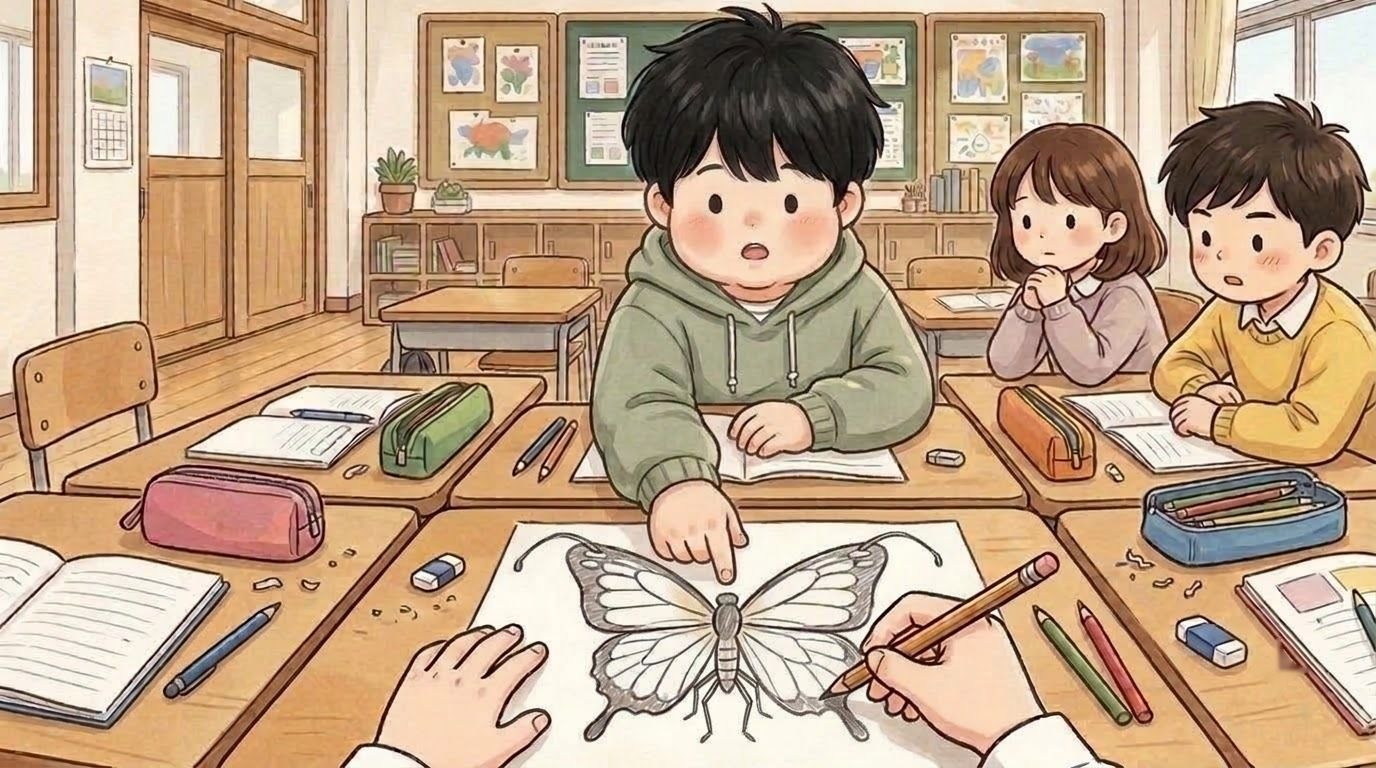
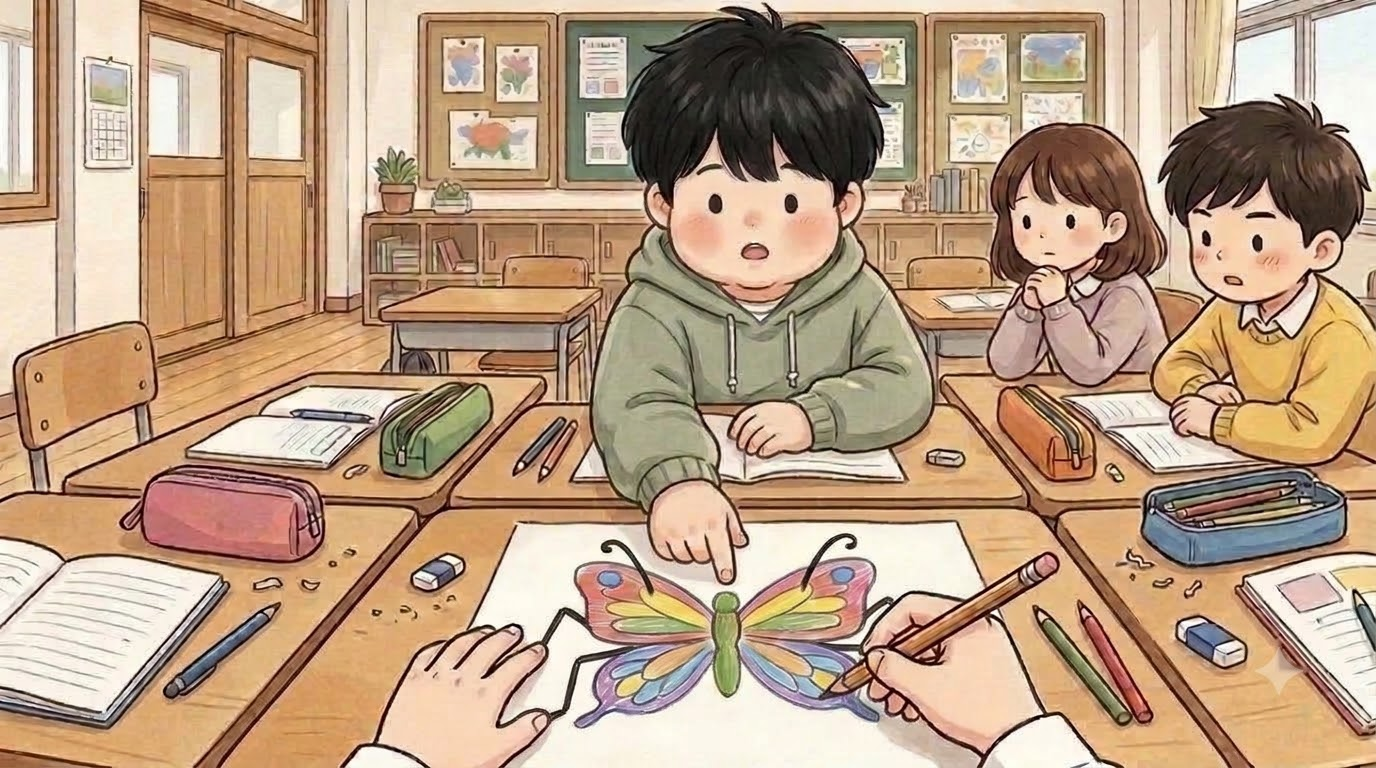
시우 나비: 짚는 장면·접는 장면 틀린 크레용 나비, 「정확해」 장면에 맞은 나비 그림 추가

Changed region(s): [[0.375, 0.6875, 0.6875, 0.9688], [0.9062, 0.8438, 0.9375, 0.9062]]

diff --git a/index.html b/index.html
@@ -119,14 +119,14 @@ body,button{word-break:keep-all;overflow-wrap:break-word}
 <div id="fader"></div>
 <script>
 // same address, newest version: if the page this phone has kept is older than the one online, fetch the new one and reopen
-const BUILD='1114211944';
+const BUILD='1115091813';
 try{fetch(location.pathname,{cache:'no-store'}).then(r=>r.text()).then(t=>{const m=t.match(/const BUILD='(\d+)'/);if(m&&m[1]!==BUILD&&sessionStorage.getItem('upd')!==m[1]){sessionStorage.setItem('upd',m[1]);fetch(location.pathname,{cache:'reload'}).then(()=>location.reload())}}).catch(()=>{})}catch(e){}
 </script>
-<script src="i18n.js?v=1114211944"></script>
-<script src="i18n_prologue_v2.js?v=1114211944"></script>
-<script src="day2/i18n_engine.js?v=1114211944"></script>
-<script src="day2/data.js?v=1114211944"></script>
-<script src="day3/data.js?v=1114211944"></script>
+<script src="i18n.js?v=1115091813"></script>
+<script src="i18n_prologue_v2.js?v=1115091813"></script>
+<script src="day2/i18n_engine.js?v=1115091813"></script>
+<script src="day2/data.js?v=1115091813"></script>
+<script src="day3/data.js?v=1115091813"></script>
 <script>
 // ---------- data ----------
 const MW=1672,MH=941,KID=180;
@@ -581,37 +581,37 @@ function pickHero(){const m=document.getElementById('modal'),c=document.getEleme
  c.innerHTML=`<h2>${tr('전학생 반장되기')}</h2><p>${tr('한국말이 아직 서툰 전학생,<br>반장 선거에 나가다.')}</p><p style="margin-top:14px">${tr('누구로 할까요?')}</p>${(()=>{const s=loadSave();return s&&s.day>=2&&s.mode===UI+'-'+LANG?`<p><button class="big" id="cont">${tr('{n}일차부터 이어 하기').replace('{n}',s.day)}</button></p>`:''})()}<div class="pick heroes"><button data-h="hero_f"><img src="faces/hero_f_smile.jpg" alt="여자 주인공">${heroName(1)}</button><button data-h="hero_m"><img src="faces/hero_m_smile.jpg" alt="남자 주인공">${heroName(0)}</button></div>`;
  m.classList.add('on');{const cb=document.getElementById('cont');if(cb)cb.onclick=()=>{const s=loadSave();HERO=s.hero;Object.assign(HEART,s.heart||{});(s.found||[]).forEach(k=>FOUND.add(k));HEART_D1={...HEART};chime();(typeof contGame==='function'?contGame(s):startDay(Math.min(s.day,Object.keys(window.D3||{}).length?3:2)))}}c.querySelectorAll('.pick button').forEach(b=>b.onclick=()=>{HERO=b.dataset.h;m.classList.remove('on');chime();bgm('day');load('home_am');say([['nar','','이사 온 다음 날 아침. 아직 풀지 못한 상자들이 쌓여 있다.'],['think','sad','(오늘부터 새 학교야. 여기 말도 아직 서툰데…….)'],['think','smile','({m}한테 인사하고 학교 가야지.)']],morning)})}
 </script>
-<script src="day2/engine.js?v=1114211944"></script>
-<script src="day2/ep_minho.js?v=1114211944"></script>
-<script src="day2/meet.js?v=1114211944"></script>
-<script src="day2/ep_sua.js?v=1114211944"></script>
-<script src="day2/ep_hangyeol.js?v=1114211944"></script>
-<script src="day2/ep_siwoo.js?v=1114211944"></script>
-<script src="day2/ep_haram.js?v=1114211944"></script>
-<script src="day2/ep_jiho.js?v=1114211944"></script>
-<script src="day2/ep_hyeeun.js?v=1114211944"></script>
-<script src="day2/ep_haneul.js?v=1114211944"></script>
-<script src="day2/ep_junho.js?v=1114211944"></script>
-<script src="day2/ep_yuna.js?v=1114211944"></script>
-<script src="day2/ep_yena.js?v=1114211944"></script>
-<script src="day2/ep_haeun.js?v=1114211944"></script>
-<script src="day2/ep_youngmin.js?v=1114211944"></script>
-<script src="day2/ep_seah.js?v=1114211944"></script>
-<script src="day2/ep_jihoon.js?v=1114211944"></script>
-<script src="words_ja_ru.js?v=1114211944"></script>
-<script src="day2/mybag.js?v=1114211944"></script>
-<script src="day2/wordpics.js?v=1114211944"></script>
-<script src="day2/spots.js?v=1114211944"></script>
-<script src="day2/textfit.js?v=1114211944"></script>
-<script src="day2/tester.js?v=1114211944"></script>
-<script src="day2/ux.js?v=1114211944"></script>
-<script src="day2/tapword.js?v=1114211944"></script>
-<script src="day2/review.js?v=1114211944"></script>
-<script src="day2/plane.js?v=1114211944"></script>
-<script src="day2/bubble.js?v=1114211944"></script>
-<script src="day2/ep_ending.js?v=1114211944"></script>
-<script src="day2/ending.js?v=1114211944"></script>
-<script src="day2/stats.js?v=1114211944"></script>
+<script src="day2/engine.js?v=1115091813"></script>
+<script src="day2/ep_minho.js?v=1115091813"></script>
+<script src="day2/meet.js?v=1115091813"></script>
+<script src="day2/ep_sua.js?v=1115091813"></script>
+<script src="day2/ep_hangyeol.js?v=1115091813"></script>
+<script src="day2/ep_siwoo.js?v=1115091813"></script>
+<script src="day2/ep_haram.js?v=1115091813"></script>
+<script src="day2/ep_jiho.js?v=1115091813"></script>
+<script src="day2/ep_hyeeun.js?v=1115091813"></script>
+<script src="day2/ep_haneul.js?v=1115091813"></script>
+<script src="day2/ep_junho.js?v=1115091813"></script>
+<script src="day2/ep_yuna.js?v=1115091813"></script>
+<script src="day2/ep_yena.js?v=1115091813"></script>
+<script src="day2/ep_haeun.js?v=1115091813"></script>
+<script src="day2/ep_youngmin.js?v=1115091813"></script>
+<script src="day2/ep_seah.js?v=1115091813"></script>
+<script src="day2/ep_jihoon.js?v=1115091813"></script>
+<script src="words_ja_ru.js?v=1115091813"></script>
+<script src="day2/mybag.js?v=1115091813"></script>
+<script src="day2/wordpics.js?v=1115091813"></script>
+<script src="day2/spots.js?v=1115091813"></script>
+<script src="day2/textfit.js?v=1115091813"></script>
+<script src="day2/tester.js?v=1115091813"></script>
+<script src="day2/ux.js?v=1115091813"></script>
+<script src="day2/tapword.js?v=1115091813"></script>
+<script src="day2/review.js?v=1115091813"></script>
+<script src="day2/plane.js?v=1115091813"></script>
+<script src="day2/bubble.js?v=1115091813"></script>
+<script src="day2/ep_ending.js?v=1115091813"></script>
+<script src="day2/ending.js?v=1115091813"></script>
+<script src="day2/stats.js?v=1115091813"></script>
 <script>
 // the goal shows big for a few seconds, then folds into a small pill (tap it to open it again)
 {const g=document.getElementById('goal');let t=null;const big=()=>{g.classList.remove('mini');clearTimeout(t);t=setTimeout(()=>g.classList.add('mini'),4000)};

diff --git a/day2/ep_siwoo.js b/day2/ep_siwoo.js
@@ -76,7 +76,7 @@ EP.siwoo=[
  choices:[
   {k:'A',text:'「그럼 다리 어디에 그려? 알려 줘.」',pts:{siwoo:2},r:[
    ['me','smile','그럼 다리 어디에 그려? 알려 줘.'],{pic:'siwoo_02_A'},{pic:'siwoo_02c'},['nar','','시우 손가락이 멈췄다.'],['siwoo','smile','가슴. 머리 말고, 배 말고, 가운데. 한쪽에 3개씩.'],
-   ['me','surprised','가슴이 어디야?'],['siwoo','smile','날개가 붙은 데.'],['nar','','나는 고쳐 그렸다. 시우가 {@picture}을 다시 봤다.'],['siwoo','relieved','……정확해.']]},
+   ['me','surprised','가슴이 어디야?'],['siwoo','smile','날개가 붙은 데.'],{pic:'siwoo_02c2'},['nar','','나는 고쳐 그렸다. 시우가 {@picture}을 다시 봤다.'],['siwoo','relieved','……정확해.']]},
   {k:'B',text:'「너 말 진짜 기분 나빠!」 하고 {@picture}을 접는다.',pts:{siwoo:0},r:[
    ['me','angry','너 말 진짜 기분 나빠!'],{pic:'siwoo_02_B'},{pic:'siwoo_02d'},['nar','','나는 {@picture}을 반으로 접었다. 시우가 깜짝 놀라 귀를 반쯤 막았다.'],['siwoo','sad','……틀린 거 말한 거야. 기분 나쁘게 한 거 아니야.'],
    ['haeun','angry','그게 기분 나쁘게 한 거야!'],['nar','','시우는 대답하지 못했다. 손가락만 빠르게 꼼지락거렸다.'],['think','sad','(시우는 정말 뭐가 잘못됐는지 모르는 얼굴이야.)']]},
